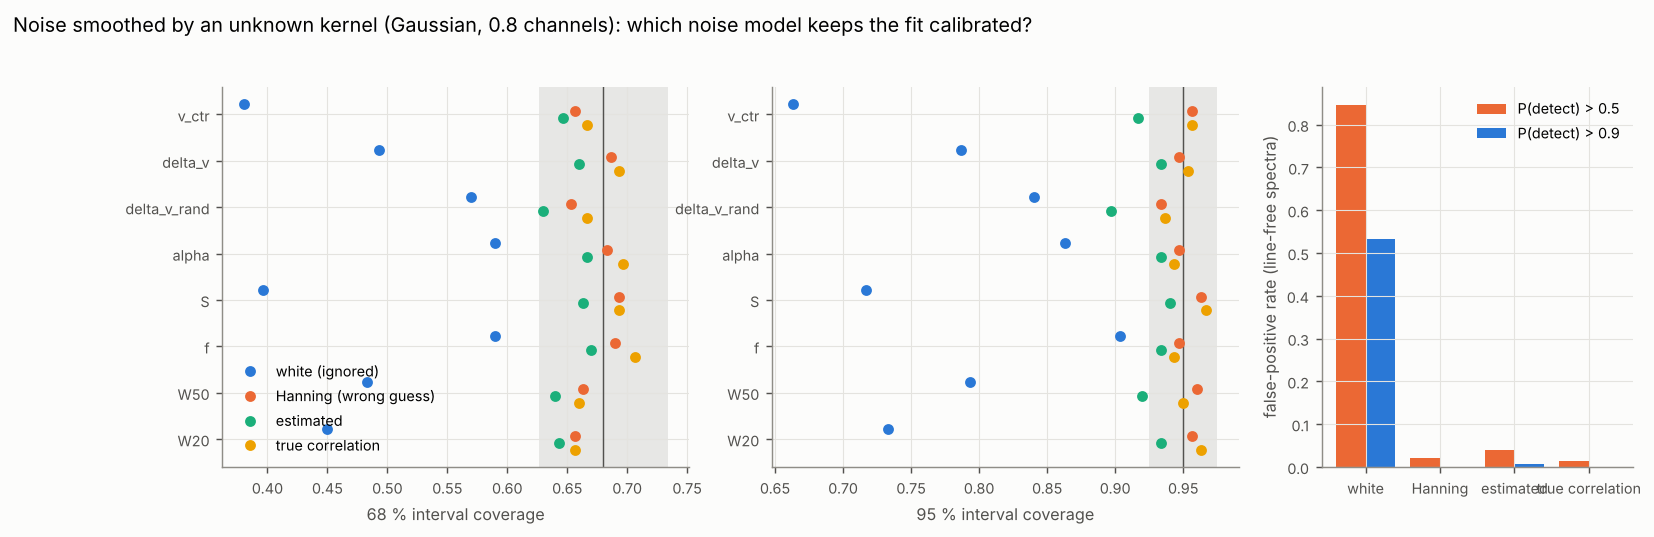
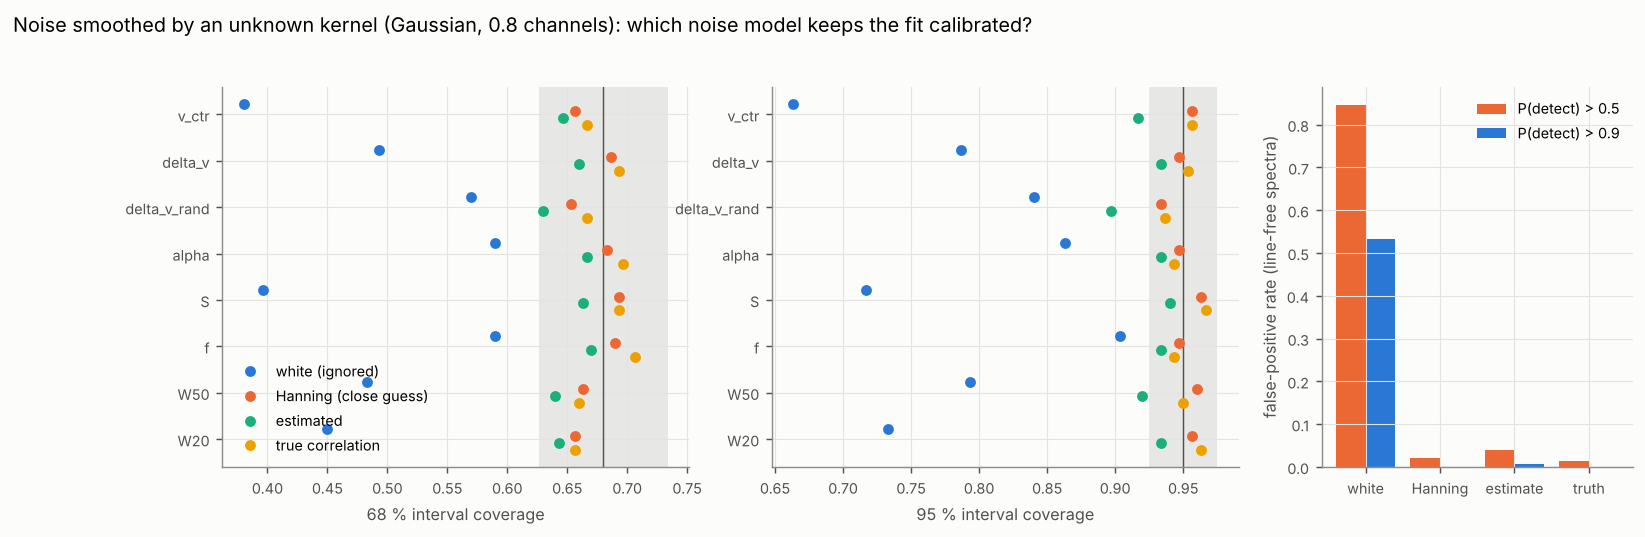
Correlated-noise figure: short tick labels
Claude-Session: https://claude.ai/code/session_01HNuVsUUJVtD1RaQHWi7F3J

diff --git a/benchmarks/correlated_noise.py b/benchmarks/correlated_noise.py
@@ -112,8 +112,9 @@ def figure(summary: dict[str, dict], path: Path, n: int) -> None:
     style.apply()
     import matplotlib.pyplot as plt
 
-    labels = {"white": "white (ignored)", "hanning": "Hanning (wrong guess)", "estimate": "estimated",
+    labels = {"white": "white (ignored)", "hanning": "Hanning (close guess)", "estimate": "estimated",
               "oracle": "true correlation"}  # fmt: skip
+    short = {"white": "white", "hanning": "Hanning", "estimate": "estimate", "oracle": "truth"}
     fig, axes = plt.subplots(1, 3, figsize=(14, 3.8), gridspec_kw={"width_ratios": [1.2, 1.2, 0.8]})
     for ax, key, nominal in ((axes[0], "coverage68", 0.68), (axes[1], "coverage95", 0.95)):
         band = 2 * np.sqrt(nominal * (1 - nominal) / n)
@@ -143,7 +144,7 @@ def figure(summary: dict[str, dict], path: Path, n: int) -> None:
         color=style.SERIES[0],
         label="P(detect) > 0.9",
     )
-    ax.set_xticks(x, [labels[k].split(" (")[0] for k in summary], fontsize=8)
+    ax.set_xticks(x, [short[k] for k in summary], fontsize=8)
     ax.set_ylabel("false-positive rate (line-free spectra)")
     ax.legend(fontsize=8)
     fig.suptitle(
